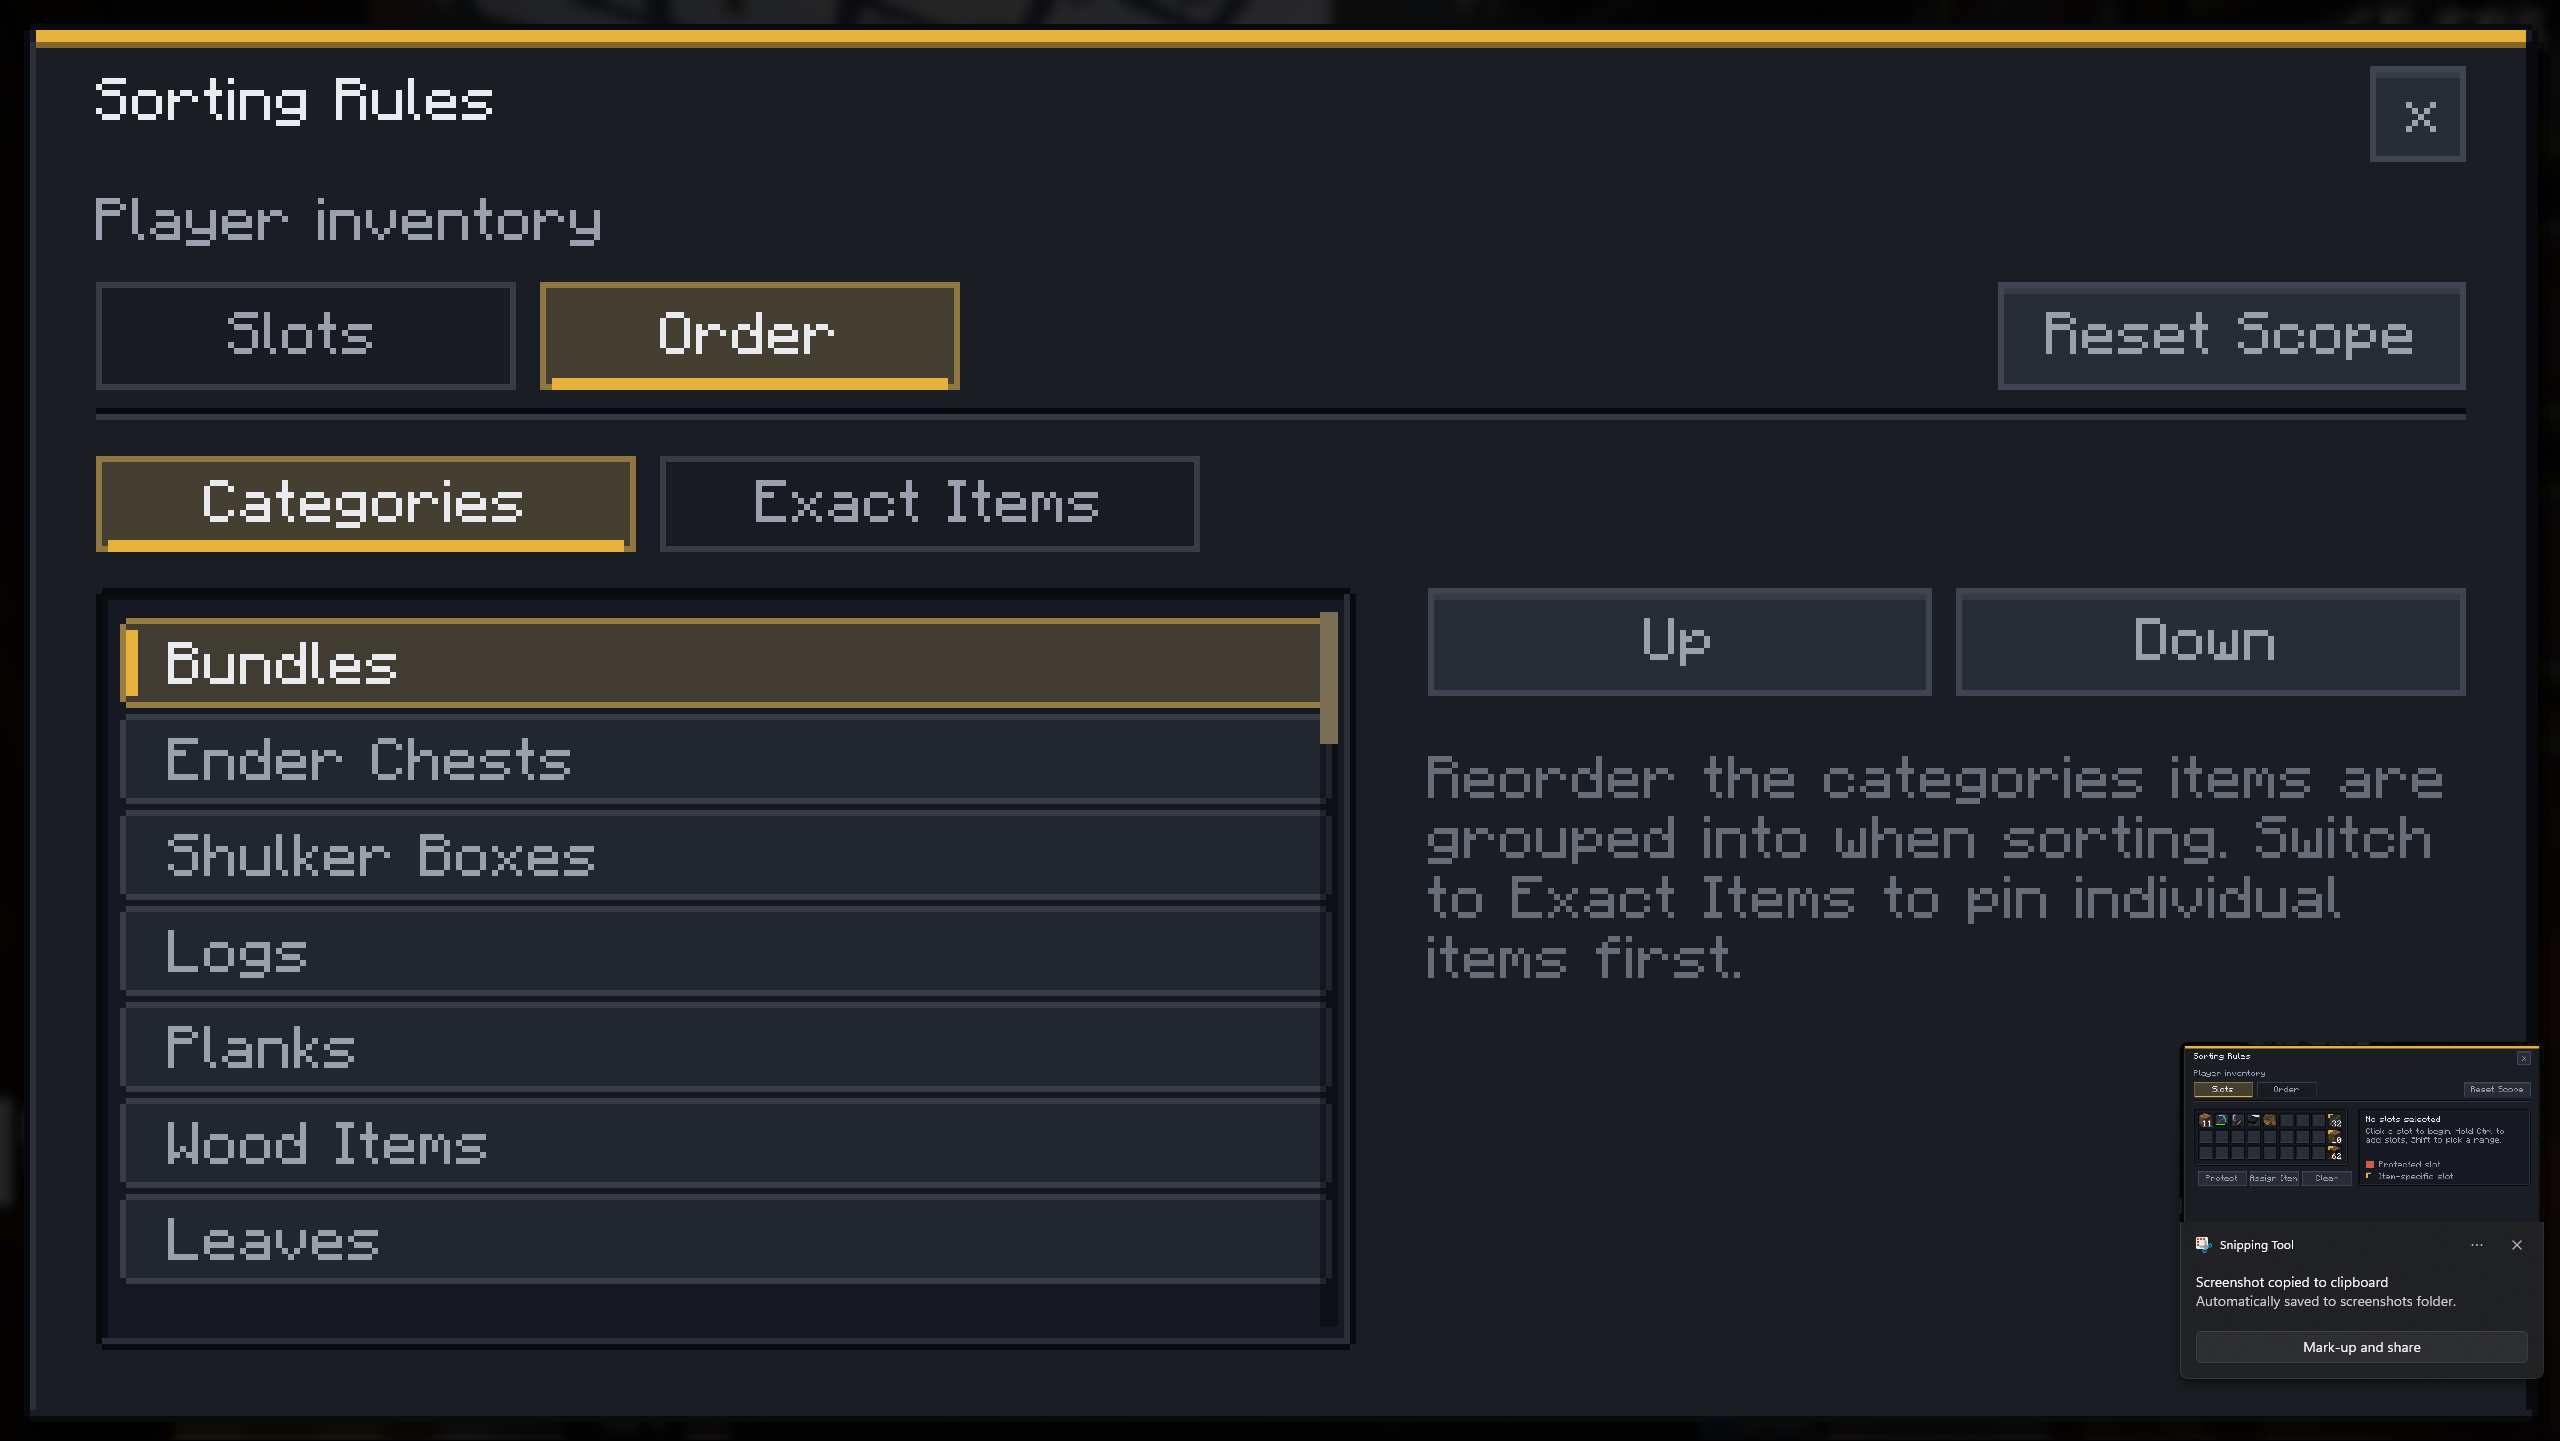
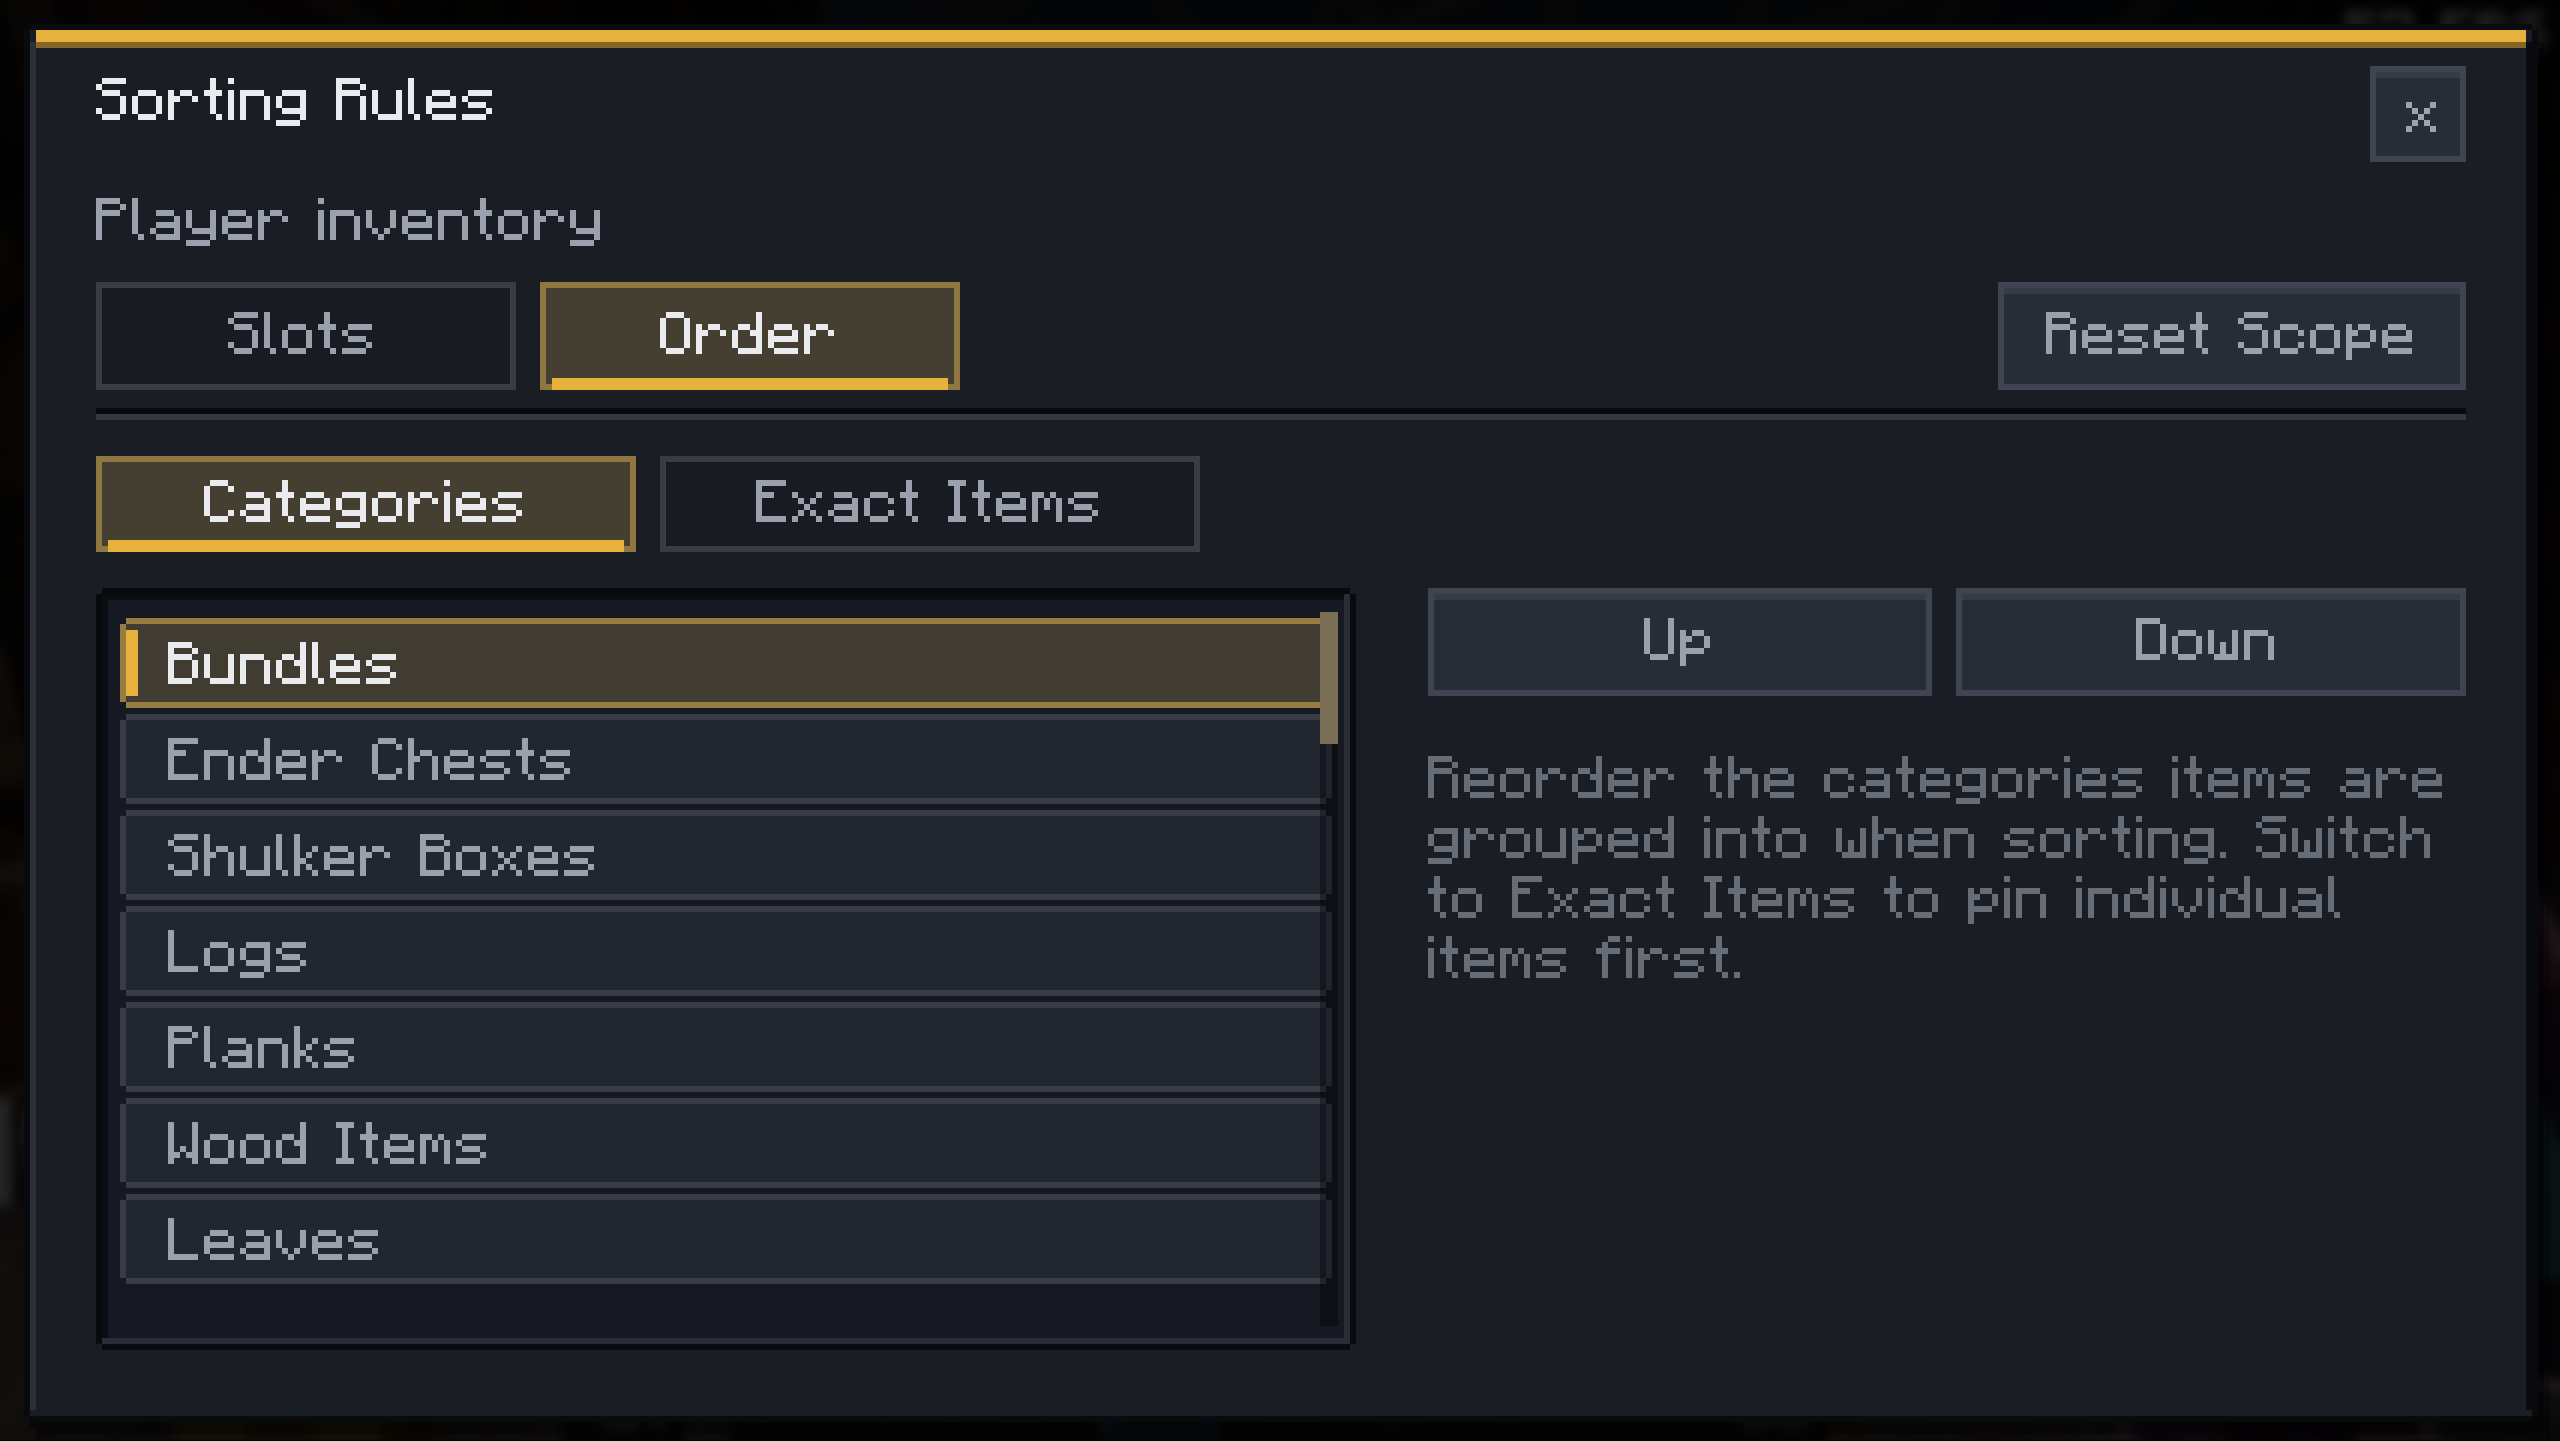
Correct InvSort gallery order screenshot

diff --git a/TODO.md b/TODO.md
@@ -44,7 +44,9 @@ source copy after uploading 9 InvSort, 5 InvSearch, and 7 InvCatalogue gallery
 images. The guarded GitHub Actions Modrinth publish workflow completed
 successfully for `3.2.0`, uploaded all 24 compatibility-group versions, and the
 annotated `v3.2.0` GitHub Release now points users to the canonical Modrinth
-downloads.
+downloads. A post-release metadata-only correction replaced the InvSort
+`Rules: Inventory Order` gallery/description screenshot on Modrinth after the
+original image included an unwanted nested screenshot icon.
 
 ## Project Workflow
 
@@ -314,6 +316,18 @@ Requested capabilities:
      history data model needed for comparisons.
 
 ## Recently Fixed
+
+-62. InvSort gallery screenshot correction (metadata-only, released):
+   - Replaced `gallery/InvSort/02_InvSort_Rules_Inventory_Order.png` and the
+     matching `description_images` selector copy with the cleaned screenshot.
+   - Verified the two local copies have the same SHA-256 hash.
+   - Ran `.\scripts\sync-modrinth-project-pages.ps1 -DryRun`.
+   - Ran `.\scripts\sync-modrinth-project-pages.ps1 -ReplaceGallery` to refresh
+     the live Modrinth project-page/gallery metadata.
+   - Public Modrinth readback confirmed the InvSort gallery still has 9 images
+     and the long description references the newly uploaded `Rules: Inventory
+     Order` CDN image.
+   - This did not touch mod jars or published version files.
 
 -61. `3.2.0` minor release publish (released):
    - Release source commit: `8bed48a786f89a74d9c912ea55c78ff9f1adf96c`

diff --git a/CHANGELOG.md b/CHANGELOG.md
@@ -69,6 +69,8 @@ All notable project changes will be documented here.
   uploaded all 24 Modrinth compatibility-group versions, and created the
   annotated `v3.2.0` GitHub Release on the exact source commit used for the
   jars.
+- Corrected the live InvSort `Rules: Inventory Order` Modrinth gallery and
+  description screenshot after replacing the source image in `gallery/`.
 
 ### Fixed
 
